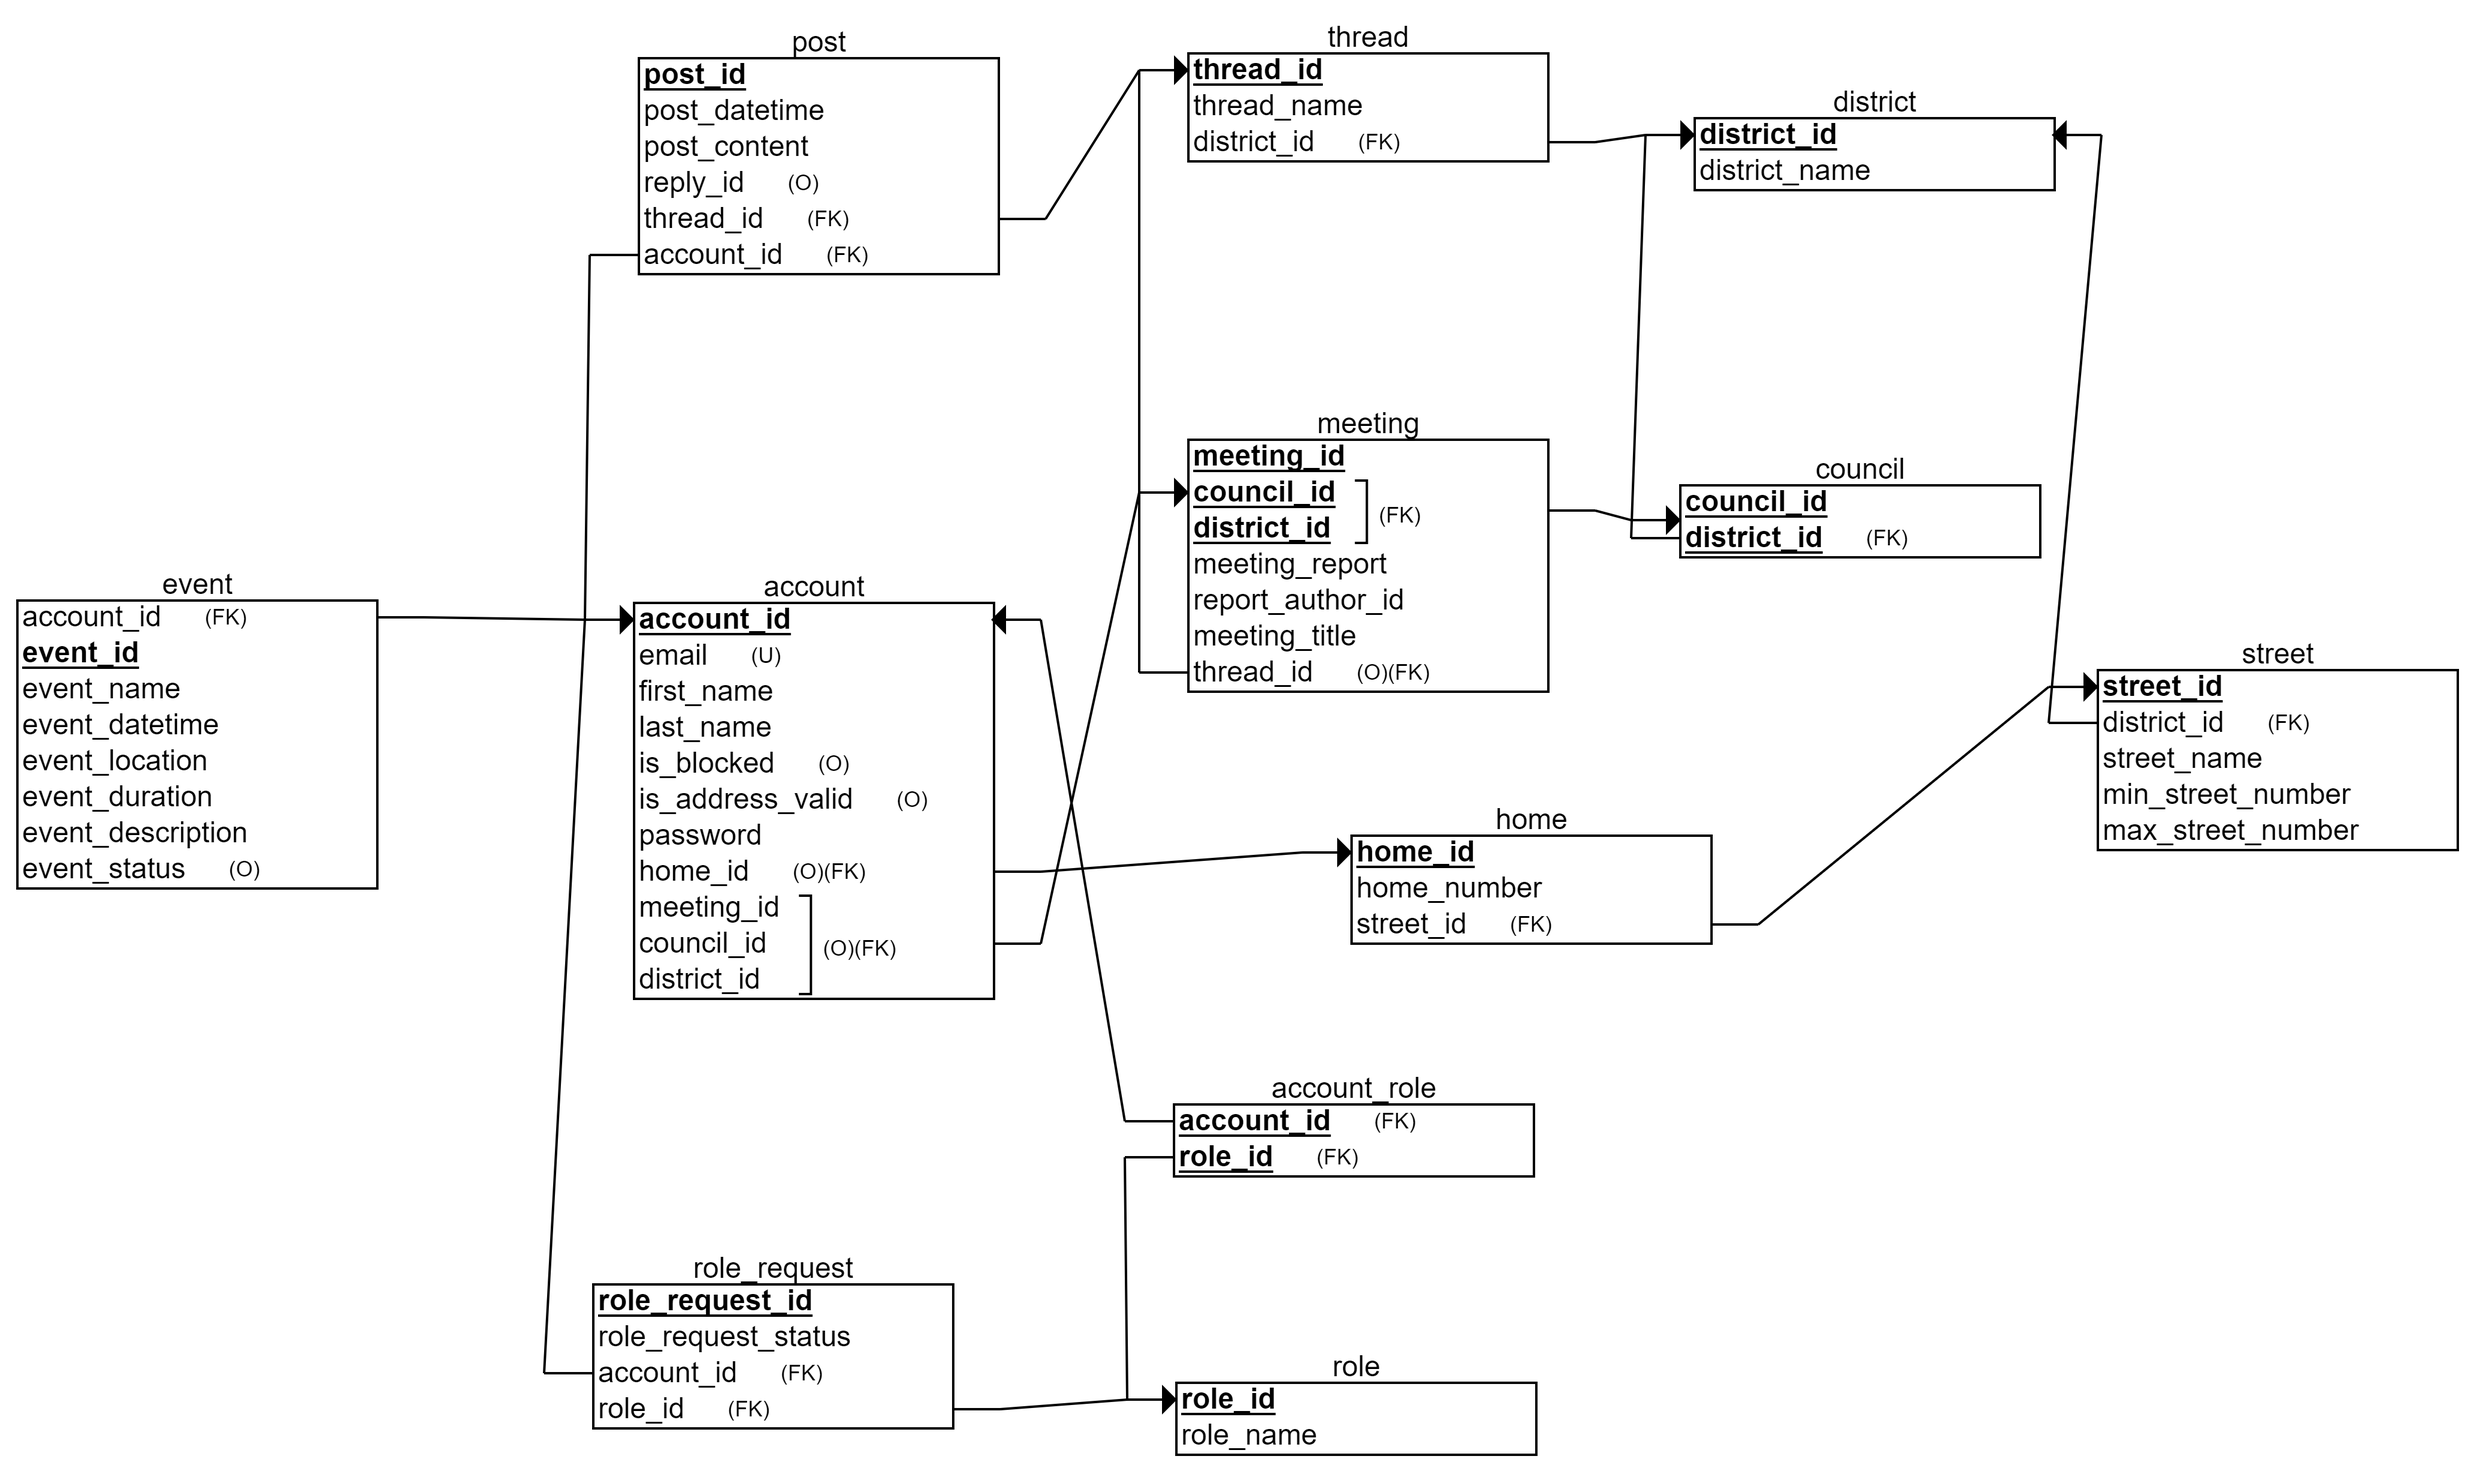
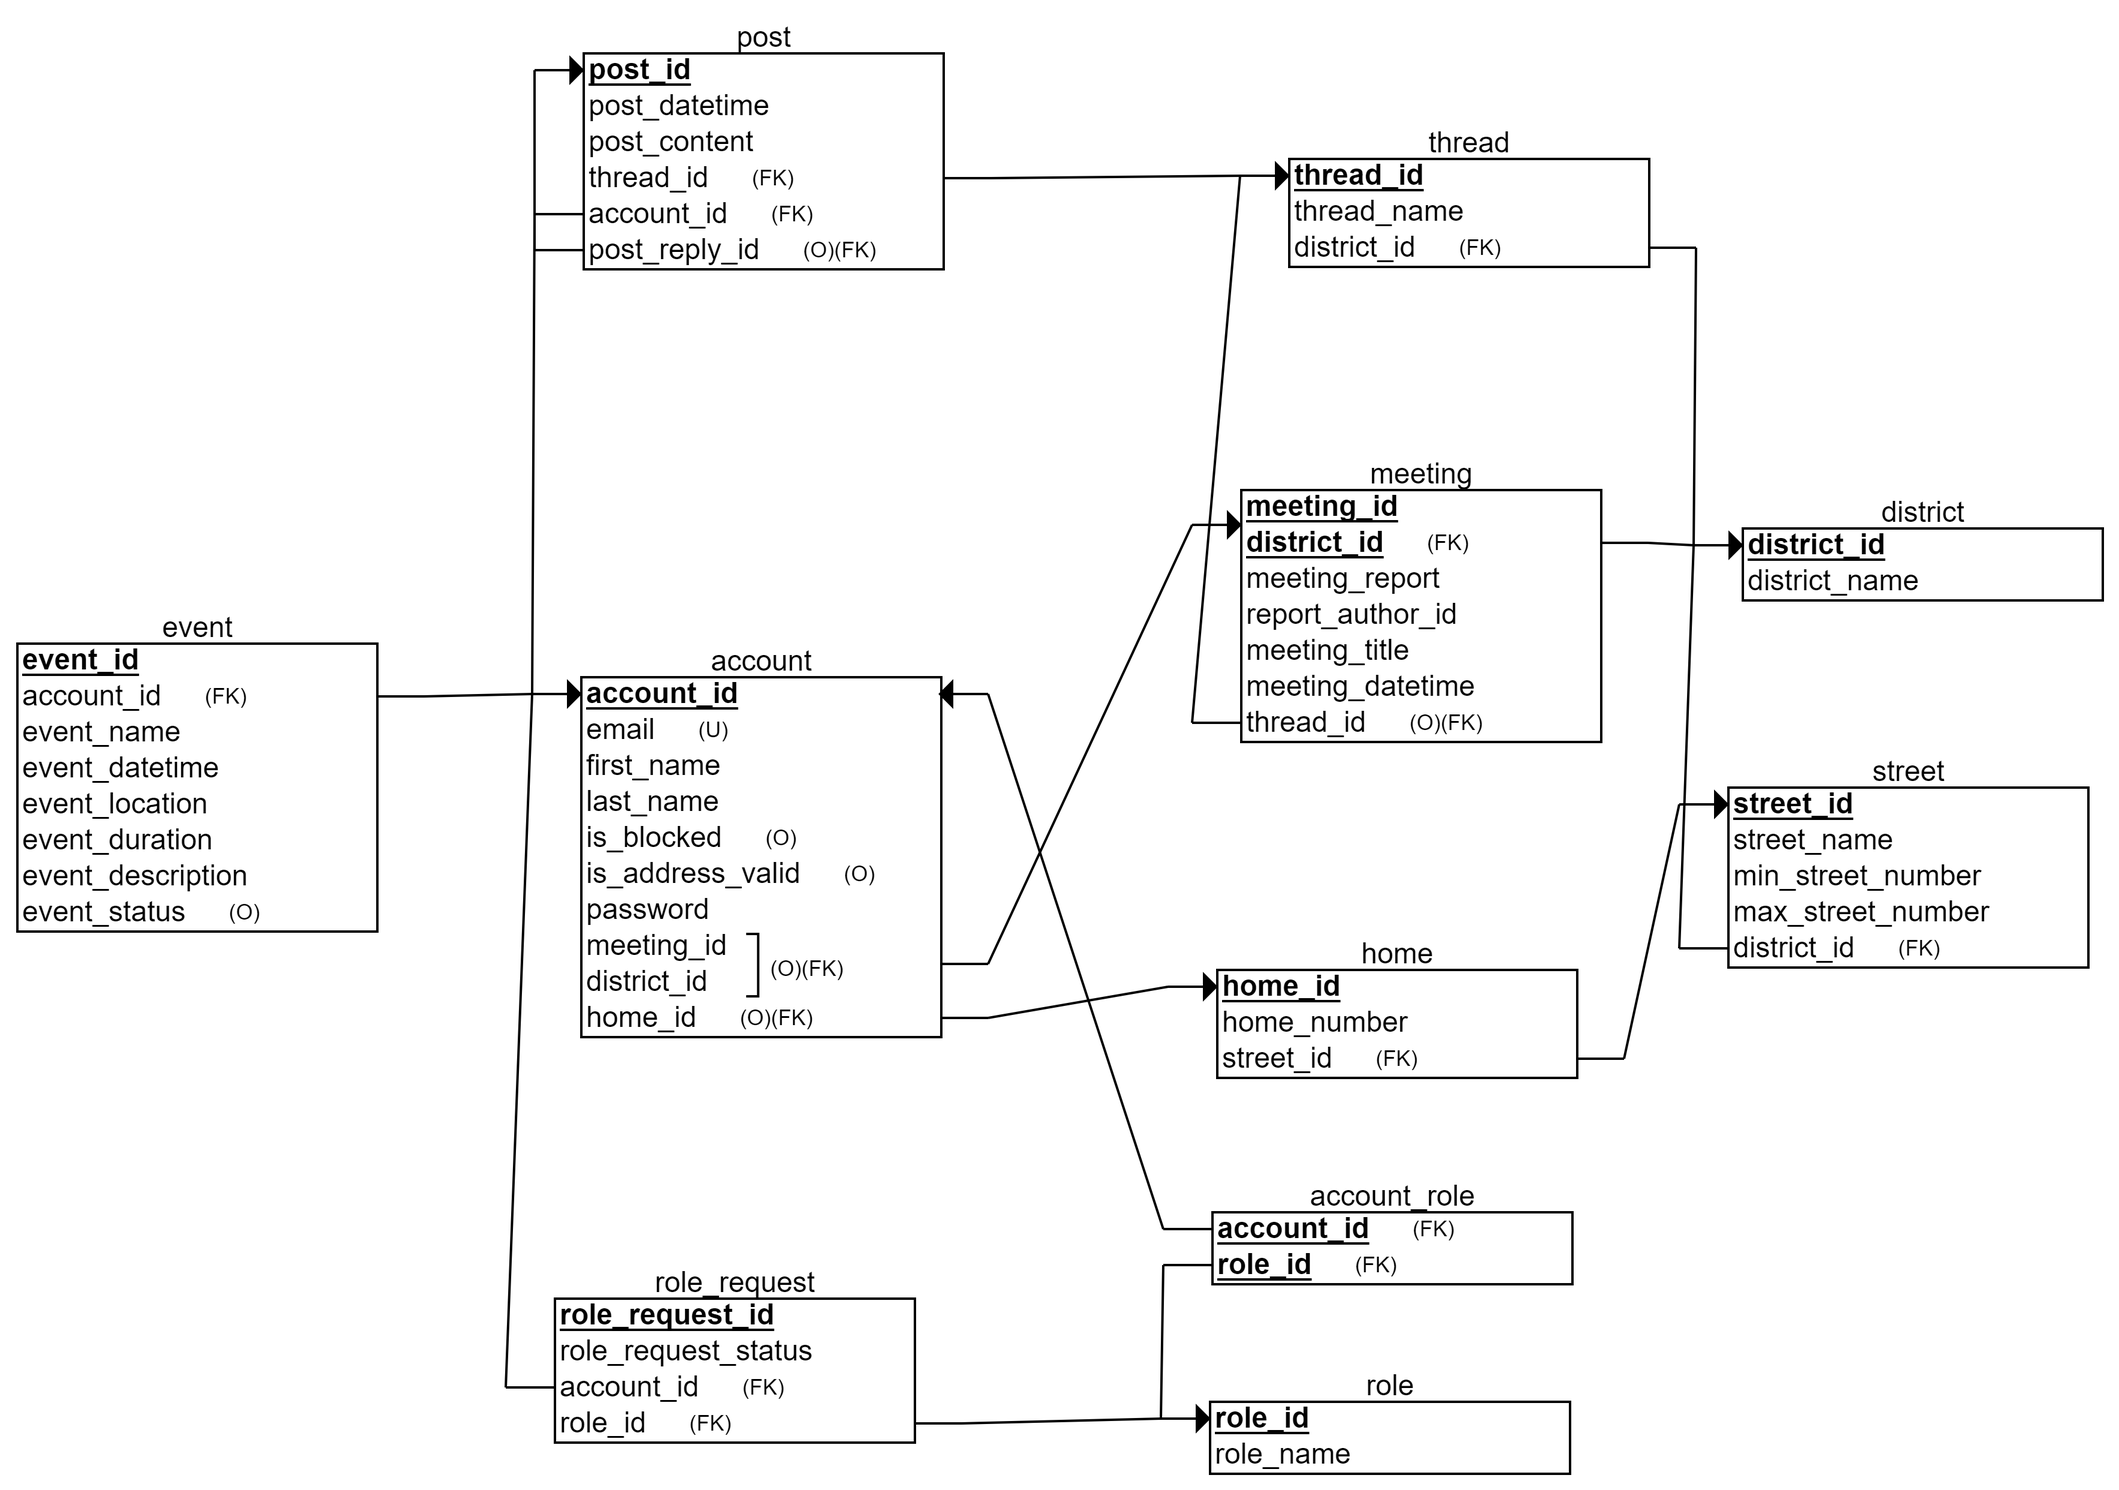
Dodana refleksivna veza atributa post te manje izmjene

diff --git a/Dokumentacija/Arhitektura.tex b/Dokumentacija/Arhitektura.tex
@@ -36,39 +36,20 @@
 			
 		
 Naš sustav koristi relacijsku bazu podataka, za koju smo se odlučili iz jednostavnog razloga. Razlog su bili podaci koji su vrlo povezani međusobno, zbog toga koristimo relacije. Relacija, odnosno tablica, je srž i glavna komponenta baze koja se sastoji od imena i skupa atributa.Baza podataka mora biti brza i efikasna u svojoj zadaći, to jest u pohranjivanju, dohvaćanju i izmjeni podataka.\\
-Naša baza podataka sastoji se od jedanaest entiteta:
+Naša baza podataka sastoji se od deset entiteta:
 \begin{multicols}{3}
-
-\begin{itemize}
-\item Account
-\item Event
-\item Thread
-\item Post
-
-\end{itemize}
-
-\columnbreak
-
-\begin{itemize}
-\item District
-\item Street
-\item Home
-\item Role
-
-\end{itemize}
-
-\begin{itemize}
-\item RoleRequest
-\item Meeting
-\item Council
-\end{itemize}
+  \begin{itemize}
+    \item Account  \item Event \item Thread \item Post
+    \item District \item Street \item Home \item[\vspace{\fill}]
+    \item Role \item RoleRequest \item Meeting \item[\vspace{\fill}]
+  \end{itemize}
 \end{multicols}
 		
 			\subsection{Opis tablica}
 			
 				
 	\textbf{\large Account}\quad\quad Entitet Account sadržava informacije o korisniku.
-				Atributi koje sadrži entitet su: Identifikacijski ključ korisnika, email, ime, prezime, password, "isBlocked" što pokazuje da li je korisnik blokiran, "isAddressValid" što pokazuje ima li korisnik ispravnu adresu na kojoj stanuje, šifru kuće u kojoj stanuje, šifru sastanaka ako je korisnik vijećnik te je prisustvovao sastanku vijeća, šifru vijeća ako je korisnik vijećnik te šifra četvrti kojoj korisnik pripada. Ovaj entitet u vezi je One-to-Many s entitetom Post preko atributa IDAccount korisnika, u vezi Many-to-One s Meeting preko IDMeeting, u vezi One-to-Many s entitetom Event preko atributa IDAccount. Također je u vezi One-to-Many s RoleRequest preko IDAccount, u vezi Many-to-One s entitetom District preko atributa IDDistrict. U vezi je Many-to-One s entitetom Home preko IDHome te naposlijetku je u vezi Many-to-Many s Role preko atributa IDAccount.
+				Atributi koje sadrži entitet su: Identifikacijski ključ korisnika, email, ime, prezime, password, "isBlocked" što pokazuje da li je korisnik blokiran, "isAddressValid" što pokazuje ima li korisnik ispravnu adresu na kojoj stanuje, šifru kuće u kojoj stanuje, šifru sastanaka ako je korisnik vijećnik te je prisustvovao sastanku vijeća te šifra četvrti kojoj korisnik pripada. Ovaj entitet u vezi je One-to-Many s entitetom Post preko atributa IDAccount korisnika, u vezi Many-to-One s Meeting preko IDMeeting, u vezi One-to-Many s entitetom Event preko atributa IDAccount. Također je u vezi One-to-Many s RoleRequest preko IDAccount, u vezi Many-to-One s entitetom District preko atributa IDDistrict. U vezi je Many-to-One s entitetom Home preko IDHome te naposlijetku je u vezi Many-to-Many s Role preko atributa IDAccount.
 				
 					
 				\begin{longtblr}[
@@ -89,7 +70,6 @@ Naša baza podataka sastoji se od jedanaest entiteta:
 					isAddressValid & BOOLEAN & Oznaka je li adresa korisnika valjana \\ \hline
 					\SetCell{LightBlue}IDHome & INT & Identifikacijski ključ korisnikove kuće  	\\ \hline
 					\SetCell{LightBlue}IDMeeting	& INT & Identifikacijski ključ sastanka  	\\ \hline
-					\SetCell{LightBlue}IDCouncil	 & INT & Identifikacijski ključ vijeća četvrti  	\\ \hline
 					\SetCell{LightBlue}IDDistrict	& INT & Identifikacijski ključ četvrti kojoj korisnik pripada  	\\ \hline
 					\end{longtblr}
 					
@@ -135,7 +115,7 @@ Naša baza podataka sastoji se od jedanaest entiteta:
 					\SetCell{LightBlue} IDDistrict	& INT & Identifikacijski ključ četvrti  	\\ \hline 
 				\end{longtblr}
 				
-	\textbf{\large Post}\quad\quad Ovaj entitet sadržava sve informacije vezane uz objavu na forumu. Sadrži atribute: Identifikacijski ključ objave, vrijeme objave, sadržaj objave, šifra odgovora na objavu(ako postoji), šifra dretve kojoj objava pripada te šifra korisnika koji je objavio objavu. Ovaj entitet je u dvije Many-to-One veze i to s entitetima Account i Thread preko njihovih odgovarajućih identifikacijskih šifri(IDAccount i IDThread).
+	\textbf{\large Post}\quad\quad Ovaj entitet sadržava sve informacije vezane uz objavu na forumu. Sadrži atribute: Identifikacijski ključ objave, vrijeme objave, sadržaj objave, šifra odgovora na objavu(ako postoji), šifra dretve kojoj objava pripada te šifra korisnika koji je objavio objavu. Ovaj entitet je u dvije Many-to-One veze i to s entitetima Account i Thread preko njihovih odgovarajućih identifikacijskih šifri(IDAccount i IDThread). Također je u refleksivnoj vezi zbog mogućnosti odgovora na objavu.
 				
 				
 					\begin{longtblr}[
@@ -153,10 +133,11 @@ Naša baza podataka sastoji se od jedanaest entiteta:
 					replyId & INT & Identifikacijski ključ odgovora na objavu \\ \hline
 					\SetCell{LightBlue}IdThread	 & INT & Identifikacijski ključ pripadajuće dretve  	\\ \hline
 					\SetCell{LightBlue}IDAccount	& INT & Identifikacijski ključ korisnika koji je objavio objavu  	\\ \hline
+					\SetCell{LightBlue}IDPostReply & INT & Identifikacijski ključ odgovora na objavu ako postoji  	\\ \hline
 				\end{longtblr}
 				
 				
-	\textbf{\large District}\quad\quad Ovaj entitet sadržava sve informacije vezane uz četvrt. Sadrži atribute: Identifikacijski ključ četvrti te naziv četvrti. Ovaj entitet je u tri One-to-Many veze i to s entitetima Account, Post i Street preko vlastite identifikacijske šifre(IDDistrict). Također je u One-to-One vezi sa slabim entitetom Council preko atributa IDDistrict.
+	\textbf{\large District}\quad\quad Ovaj entitet sadržava sve informacije vezane uz četvrt. Sadrži atribute: Identifikacijski ključ četvrti te naziv četvrti. Ovaj entitet je u tri One-to-Many veze i to s entitetima Account, Post i Street preko vlastite identifikacijske šifre(IDDistrict). Također je u One-to-Many vezi sa slabim entitetom Meeting preko atributa IDDistrict.
 				
 					\begin{longtblr}[
 					label=none,
@@ -168,7 +149,7 @@ Naša baza podataka sastoji se od jedanaest entiteta:
 					} %definicija širine tablice, širine stupaca, poravnanje i broja redaka naslova tablice
 					\hline \multicolumn{3}{|c|}{\textbf{District}}	 \\ \hline[3pt]
 					\SetCell{LightGreen}IDDistrict & INT	&  	Identifikacijski ključ četvrti  	\\ \hline
-					districtName	& INT & Naziv četvrti  	\\ \hline
+					districtName	& VARCHAR & Naziv četvrti  	\\ \hline
 				\end{longtblr}
 				
 				\textbf{\large Street}\quad\quad Ovaj entitet sadržava sve informacije vezane uz ulicu. Sadrži atribute: Identifikacijski ključ ulice, naziv ulice, najmanji kućanski broj u ulici, najveći kućanski broj u ulici te šifra četvrti u kojoj se ulica nalazi. Ovaj entitet je u Many-to-One vezi s entitetom District preko šifre četvrti. Također je u One-to-Many vezi s entitetom Home preko atributa IDStreet.
@@ -261,7 +242,7 @@ Naša baza podataka sastoji se od jedanaest entiteta:
 							\end{longtblr}
 							
 							
-						\textbf{\large Meeting}\quad\quad Ovaj slabi entitet sadržava sve informacije vezane uz sastanak vijeća. Sadrži atribute: Identifikacijski ključ sastanka, naziv sastanka, izvještaj te šifru autora izvještaja. Također sadrži šifru vijeća, šifru četvrti te šifru dretve na forumu ukoliko je otvorena na temu izvještaja. Ovaj entitet je u One-to-One vezi s entitetom Thread preko šifre dretve. Također je u Many-to-One vezi sa slabim entitetom Council preko šifre vijeća te u vezi	One-to-Many s entitetom Account preko šifre sastanka.
+						\textbf{\large Meeting}\quad\quad Ovaj slabi entitet sadržava sve informacije vezane uz sastanak vijeća. Sadrži atribute: Identifikacijski ključ sastanka, naziv sastanka, vrijeme sastanka, izvještaj te šifru autora izvještaja. Također sadrži šifru četvrti te šifru dretve na forumu ukoliko je otvorena na temu izvještaja. Ovaj entitet je u One-to-One vezi s entitetom Thread preko šifre dretve. Također je u Many-to-One vezi s entitetom District preko šifre četvrti te u vezi One-to-Many s entitetom Account preko šifre sastanka.
 							
 							
 							\begin{longtblr}[
@@ -269,36 +250,20 @@ Naša baza podataka sastoji se od jedanaest entiteta:
 					entry=none
 					]{
 						width = \textwidth,
-						colspec={|X[7,l]|X[6, l]|X[20, l]|}, 
+						colspec={|X[8,l]|X[6, l]|X[20, l]|}, 
 						rowhead = 1,
 					} %definicija širine tablice, širine stupaca, poravnanje i broja redaka naslova tablice
 					\hline \multicolumn{3}{|c|}{\textbf{Meeting}}	 \\ \hline[3pt]
 					\SetCell{LightGreen}IDMeeting & INT	&  	Identifikacijski ključ sastanka  	\\ \hline
-					\SetCell{LightGreen}\underline{IDCounil}	 & INT & Identifikacijski ključ vijeća \\ \hline
 					\SetCell{LightGreen}\underline{IDDistrict}	 & INT & Identifikacijski ključ četvrti \\ \hline
 					\SetCell{LightBlue}IDThread	 & INT & Identifikacijski ključ dretve \\ \hline
 					meetingReport	& VARCHAR & Izvješće sastanka  	\\ \hline
 					reportAuthorId	& INT & Identifikacijski broj korisnika koji je sastavio izvješće\\ \hline
 					meetingTitle & VARCHAR & Naziv sastanka \\ \hline 
+					meetingDatetime & TIMESTAMP & Vrijeme sastanka \\ \hline
 					  	
 							\end{longtblr}
 							
-							
-							
-							\textbf{\large Council}\quad\quad Ovaj slabi entitet sadržava sve informacije vezane uz vijeće. Sadrži atribute: Identifikacijski ključ vijeća te šifru četvrti kojoj pripada. Ovaj entitet je u One-to-One vezi s entitetom District preko šifre četvrti. Također je u One-to-Many vezi sa slabim entitetom Meeting preko šifre vijeća.
-							
-							\begin{longtblr}[
-					label=none,
-					entry=none
-					]{
-						width = \textwidth,
-						colspec={|X[6,l]|X[6, l]|X[20, l]|}, 
-						rowhead = 1,
-					} %definicija širine tablice, širine stupaca, poravnanje i broja redaka naslova tablice
-					\hline \multicolumn{3}{|c|}{\textbf{Council}}	 \\ \hline[3pt]
-					\SetCell{LightGreen}IDCouncil & INT	&  	Identifikacijski ključ vijeća  	\\ \hline
-					\SetCell{LightGreen}\underline{IDDistrict}	 & INT & Identifikacijski ključ četvrti  	\\ \hline
-							\end{longtblr}
 							
 							
 			\eject	
